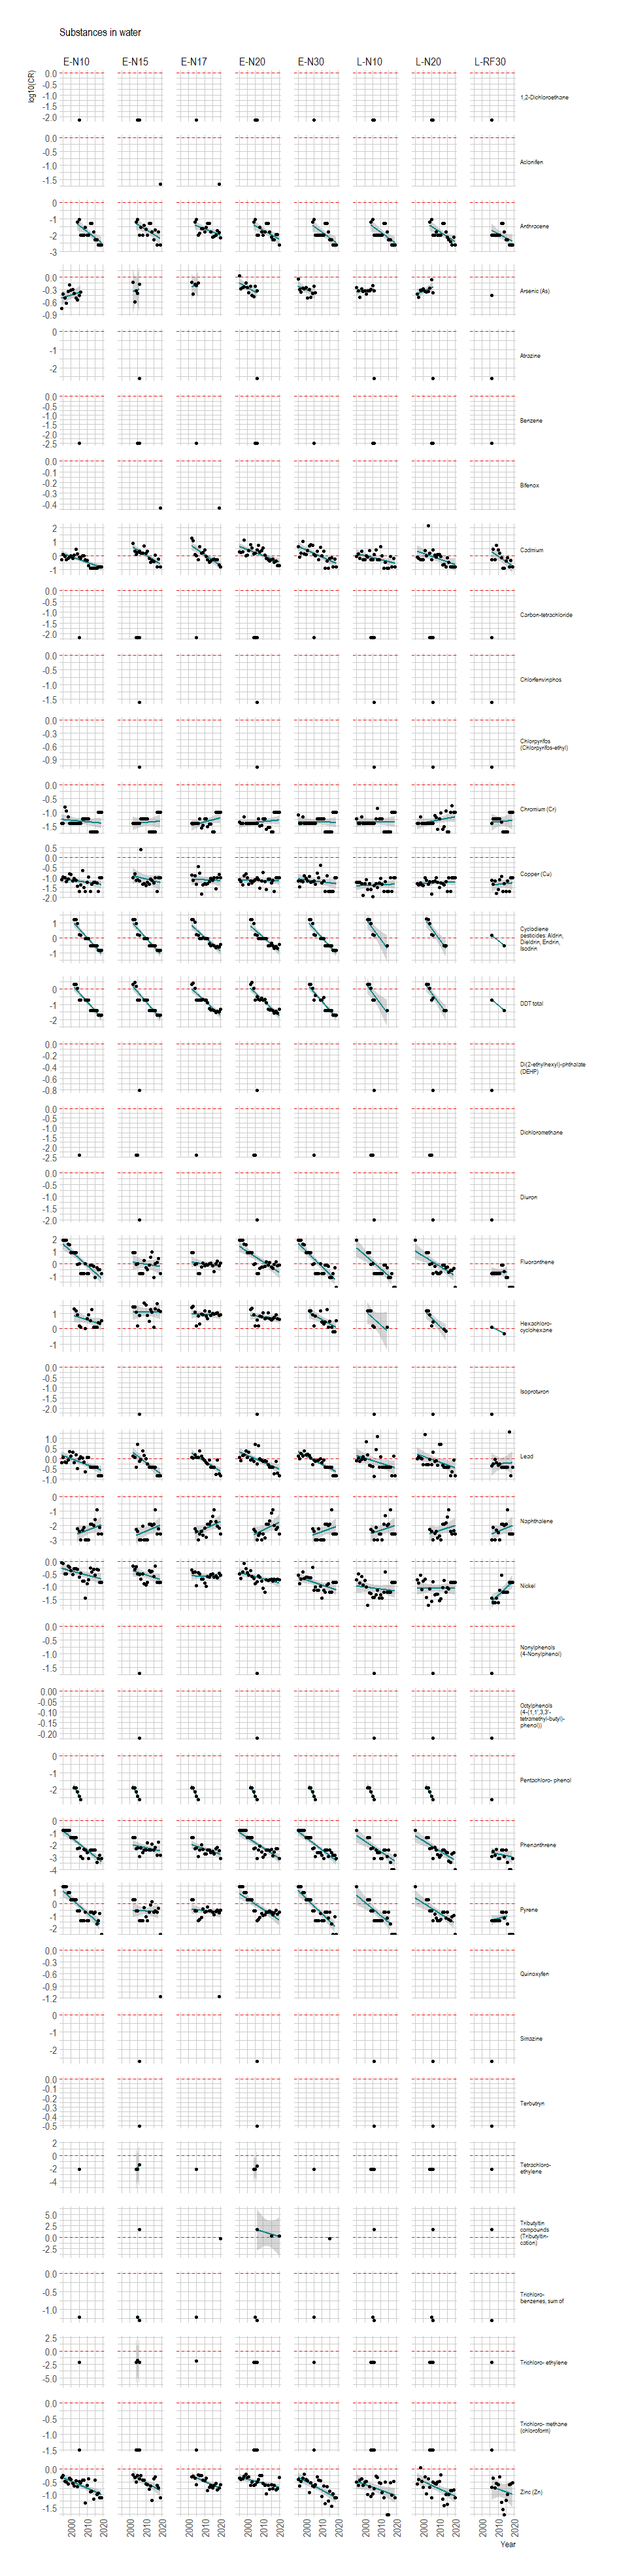
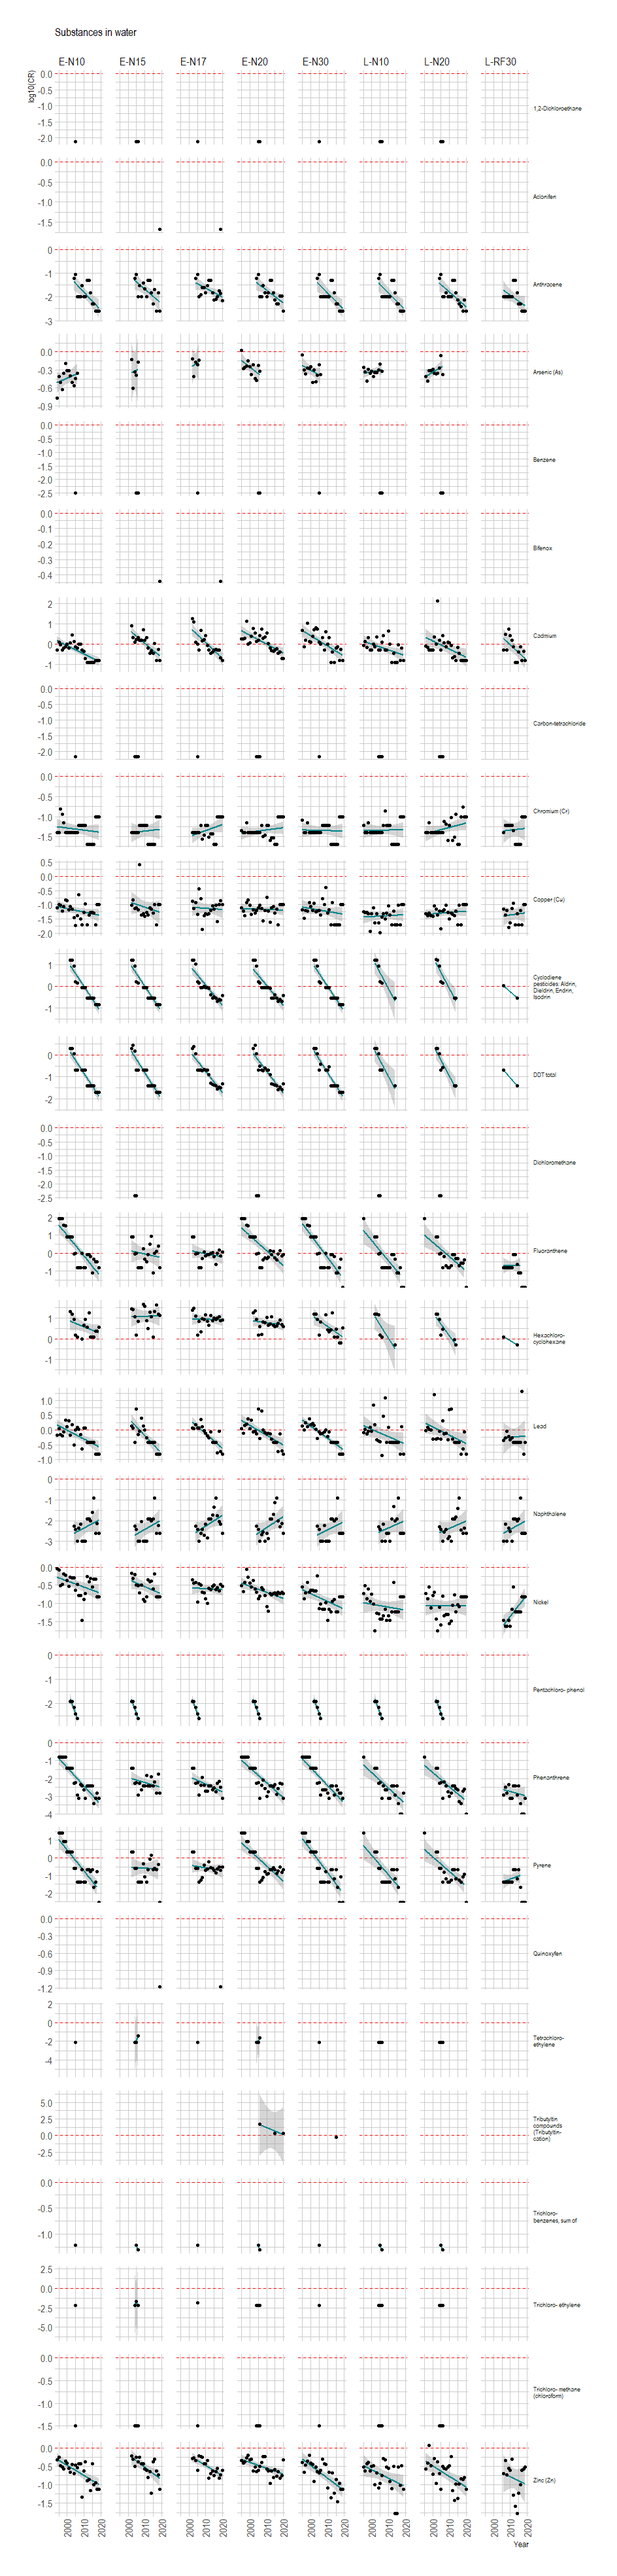
excluding substance/station combinations where n_obs < 3

Changed region(s): [[0.0614, 0.0, 0.9216, 0.9997]]

diff --git a/README.md b/README.md
@@ -41,7 +41,11 @@ In biota, the observed concentrations are measured on a fresh (wet) weight basis
 ```
 conc_DW = conc_FW / avg_dry_weight_fraction 
 ```
+#### Number of observations
 
+For each matrix/substance/station combination we check the number of observations, n. If n < 3 then the observations are not included in the assessment.
+
+The list of substance not included can be seen in [substances_with_few_observations.csv](results/substances_with_few_observations.csv)
 
 
 ### CHASE Method
